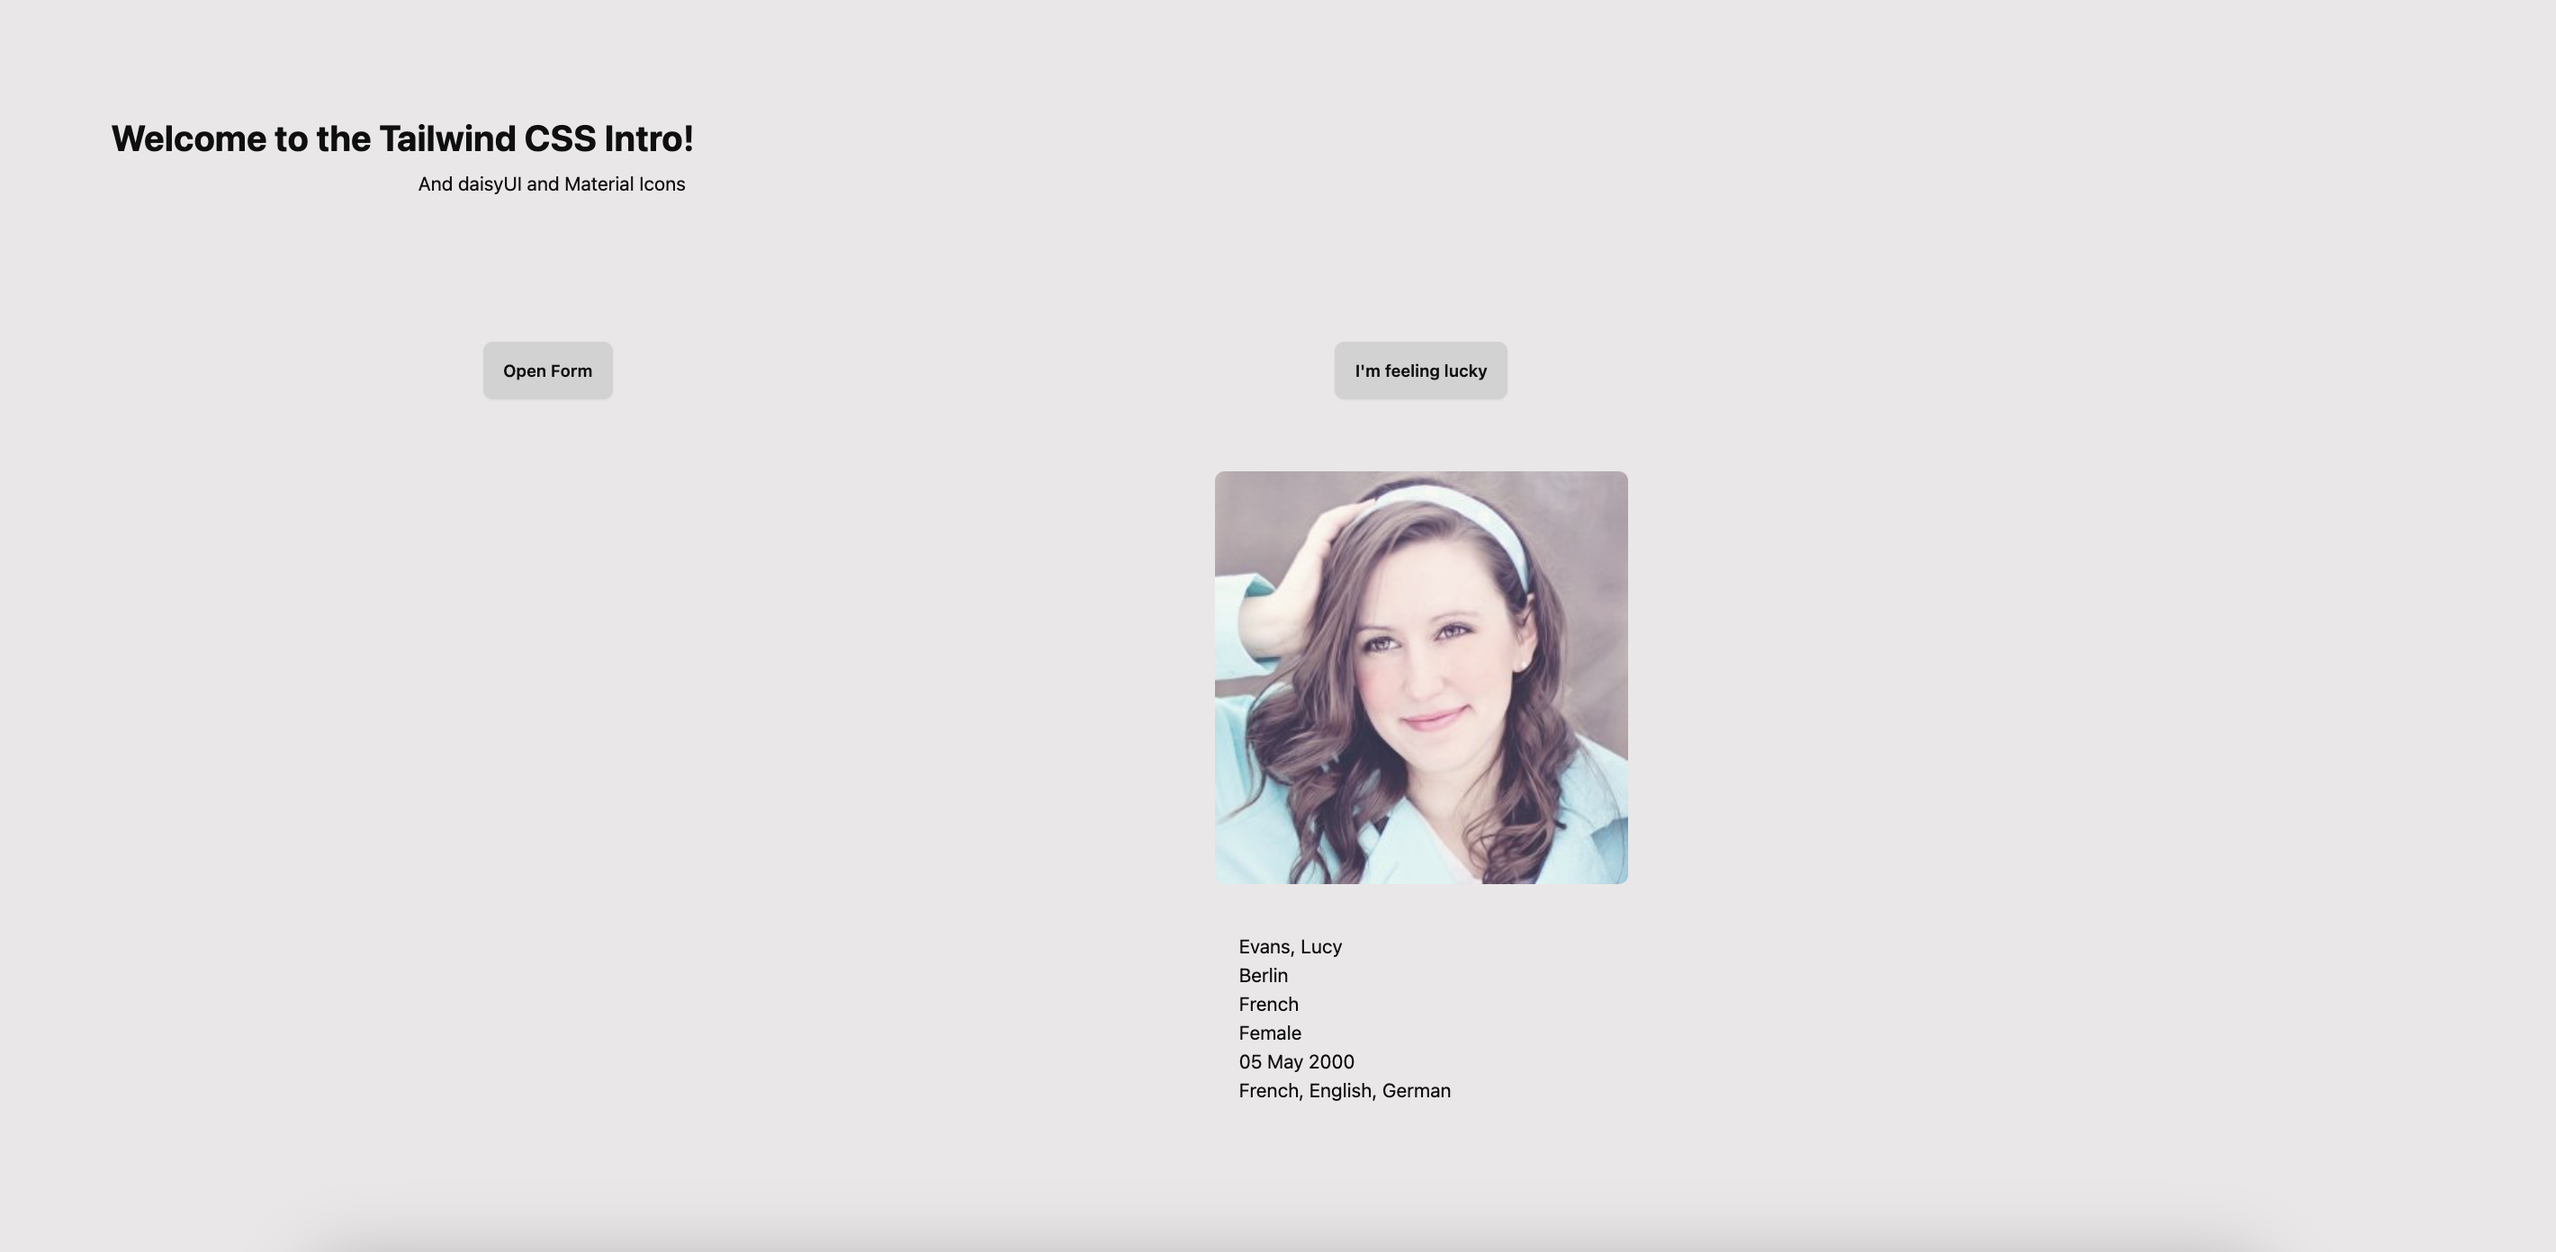
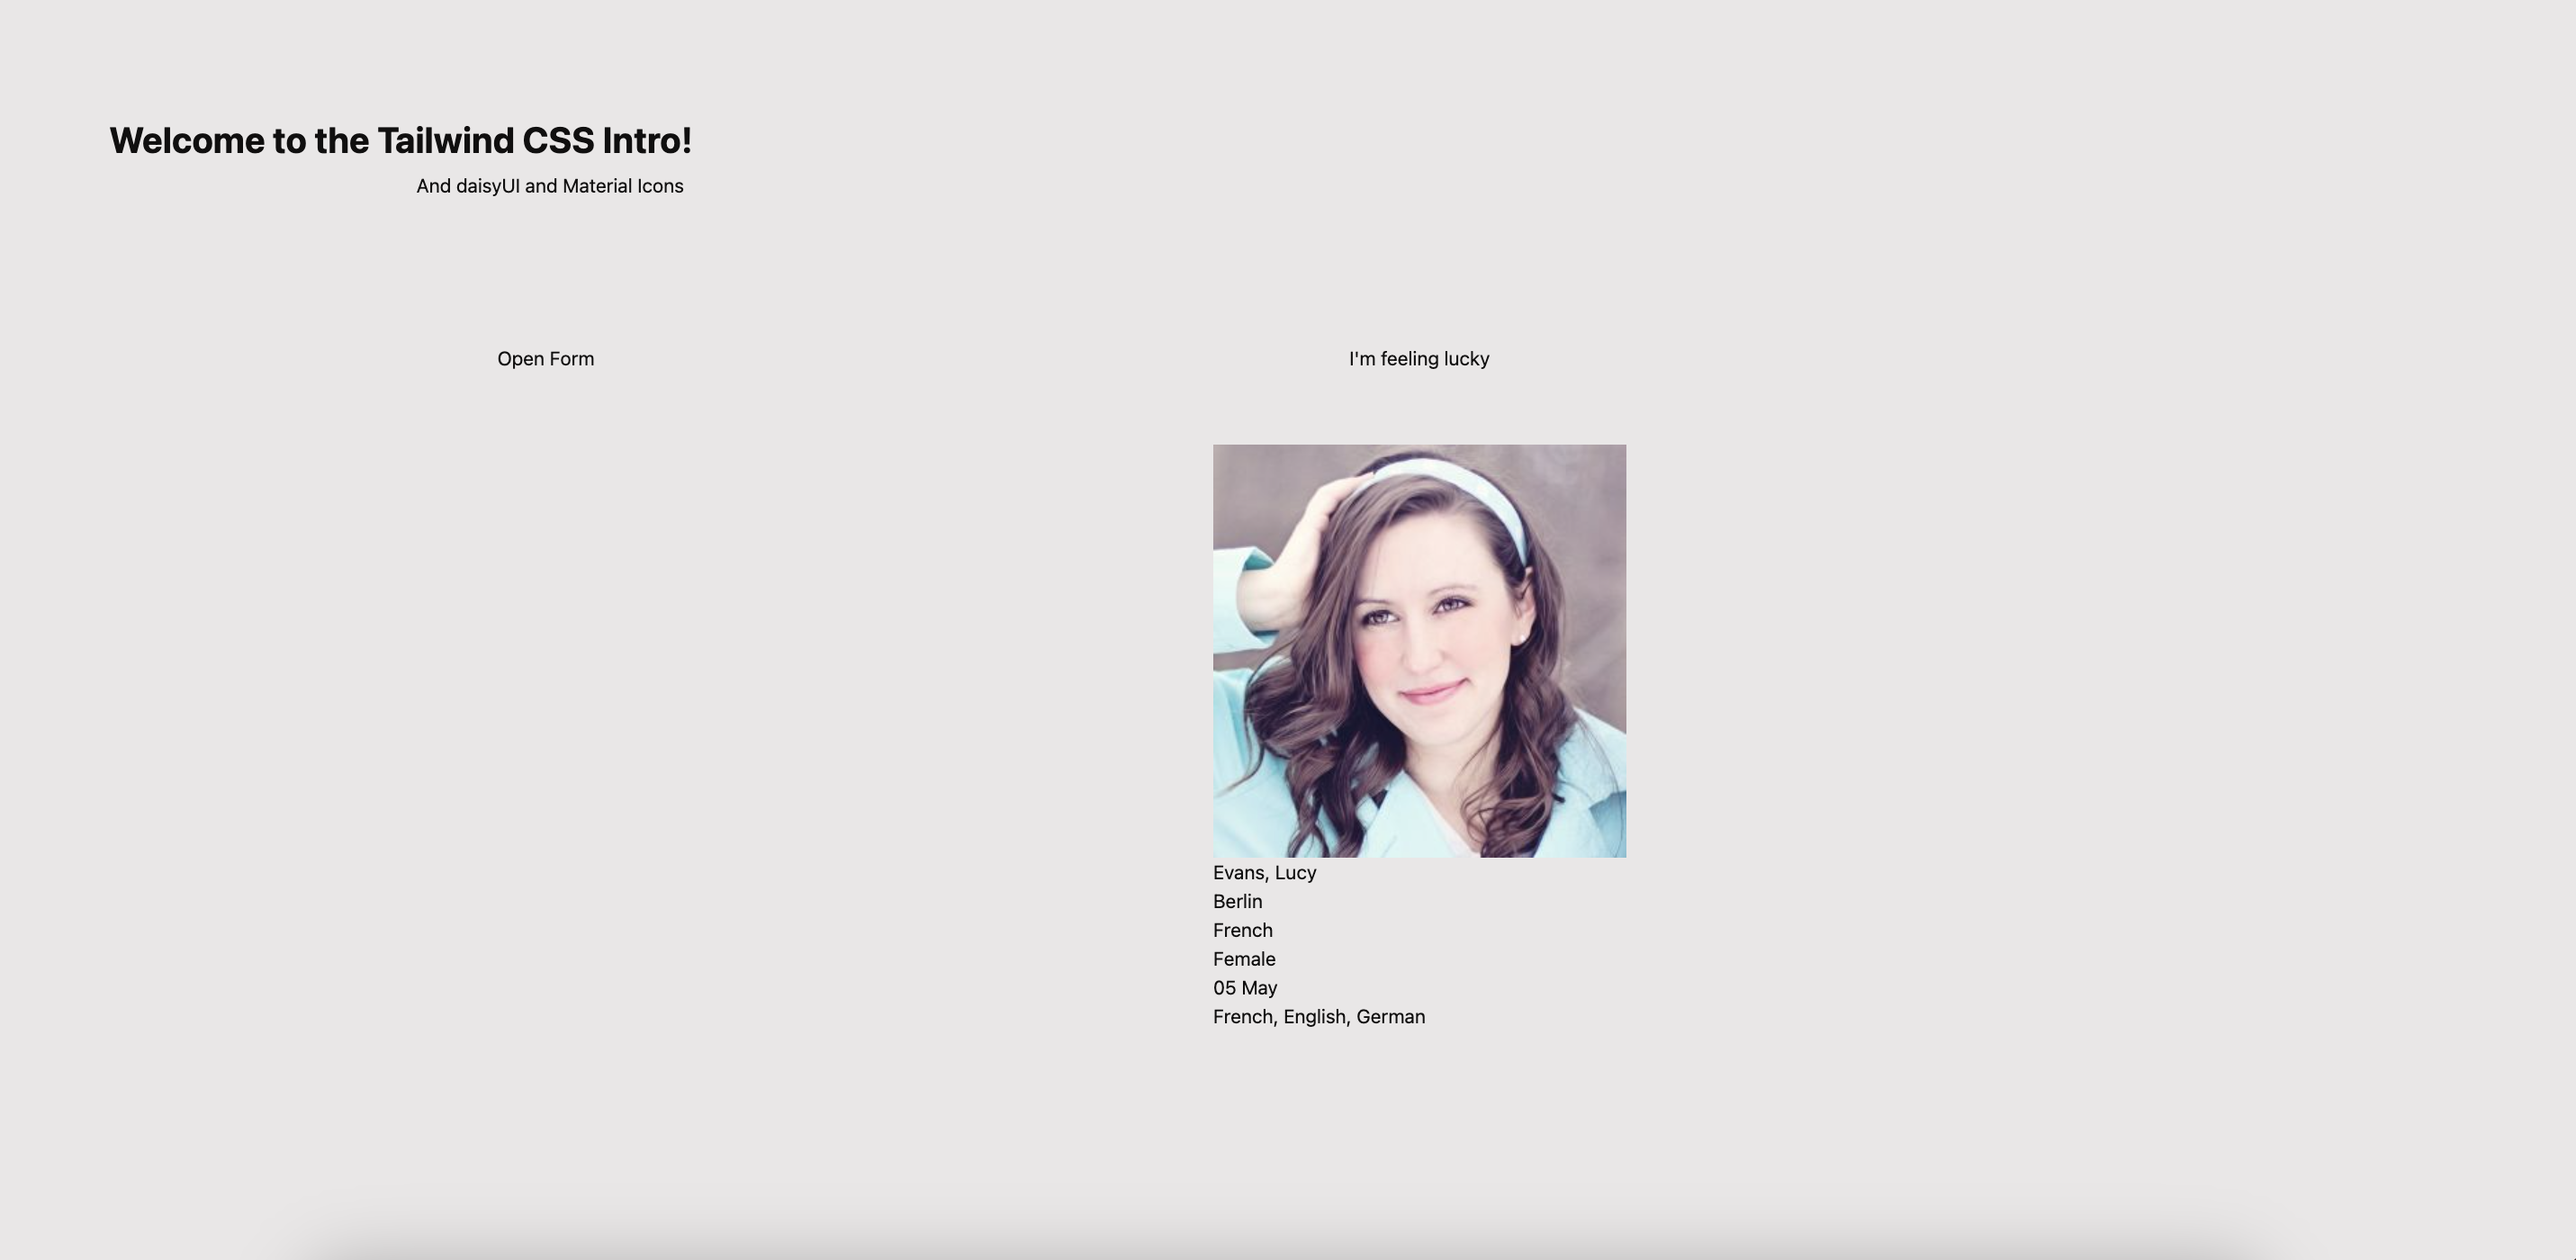
rolled back some styles

diff --git a/src/App.jsx b/src/App.jsx
@@ -49,7 +49,7 @@ function App() {
       <div className="container">
         <div className="left">
           <button
-            className={`btn ${formIsOpen ? "btn-disabled" : null}`}
+            className={`${formIsOpen ? "btn-disabled" : null}`}
             onClick={openFormHandler}
           >
             Open Form
@@ -57,7 +57,7 @@ function App() {
           {formIsOpen && <Form dispatch={dispatch} />}
         </div>
         <div className="right">
-          <button className="btn" onClick={handlSetAvatar}>
+          <button className="" onClick={handlSetAvatar}>
             I&apos;m feeling lucky
           </button>
           <Card avatar={avatar} firstName={firstName} lastName={lastName} />

diff --git a/src/output.css b/src/output.css
@@ -1719,10 +1719,9 @@ li {
   padding: 1.25rem;
 }
 
-.card img {
-  border-radius: 0.5rem;
-  opacity: 0.85;
-}
+/* .card img {
+
+  } */
 
 .mt-10 {
   margin-top: 2.5rem;
@@ -1730,10 +1729,6 @@ li {
 
 .mt-3 {
   margin-top: 0.75rem;
-}
-
-.mt-5 {
-  margin-top: 1.25rem;
 }
 
 .flex {
@@ -1748,18 +1743,10 @@ li {
   max-width: 20rem;
 }
 
-.flex-col {
-  flex-direction: column;
-}
-
 .gap-3 {
   gap: 0.75rem;
 }
 
 .justify-self-center {
   justify-self: center;
-}
-
-.p-5 {
-  padding: 1.25rem;
 }

diff --git a/src/Card.jsx b/src/Card.jsx
@@ -7,8 +7,8 @@ const Card = ({ avatar, firstName, lastName }) => {
     <div className="card">
       {/* <img src={IMG_URL} /> */}
       <img src={`${AVATAR_URL_BASE}${avatar}`} />
-      <div className="mt-5 p-5">
-        <ul className="flex flex-col">
+      <div className="">
+        <ul className="">
           <li>
             <span>{lastName}</span>
             <span>, {firstName}</span>

diff --git a/src/index.css b/src/index.css
@@ -49,7 +49,7 @@
     @apply mt-10 p-5 rounded-lg ml-auto mr-auto w-96;
   }
 
-  .card img {
-    @apply rounded-lg opacity-85;
-  }
+  /* .card img {
+
+  } */
 }
